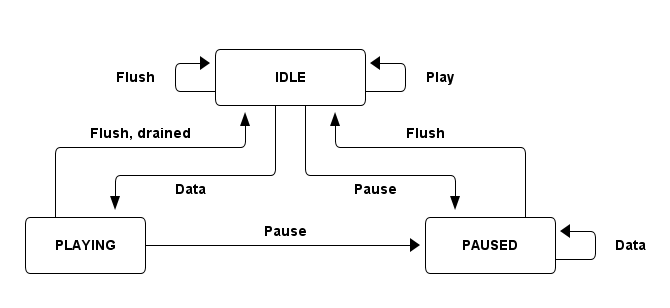
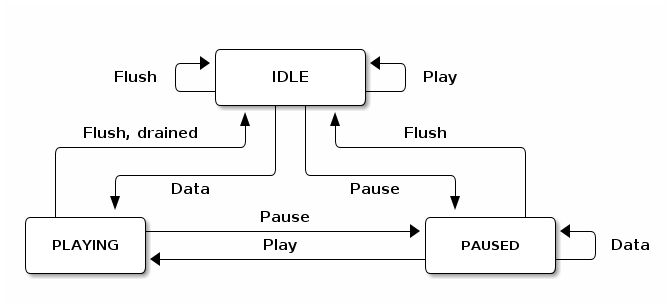
minor fixes to diagrams

diff --git a/docs/learn/base-services/audiostreaming/interface.md b/docs/learn/base-services/audiostreaming/interface.md
@@ -34,6 +34,7 @@
 | | |   * Stream.Port.ApplicationMetadata |
 | | | * Added the Control.Volume interface. |
 | | | * Updated the Introspection XML to reflect the Control.Volume output. |
+| 14.06 Update 2 | 11/12/2014 | Updated the Audio sink state diagram to include a Play arrow directed from Paused to Playing. |
 
 ## Definition Overview
 
@@ -196,8 +197,7 @@ or Stream.Port.AudioSink.
 
 | Interface name | Version | Secured | Object path |
 |---|---|---|---|
-| org.alljoyn.Stream.Port | 1 | no | Chile node of node 
-implementing the Stream interface. |
+| org.alljoyn.Stream.Port | 1 | no | Chile node of node implementing the Stream interface. |
 
 ### Properties
 
@@ -251,7 +251,7 @@ first close the stream, then open and connect with the new configuration.
 ## Stream.Port.Audio Interfaces
 
 The Stream.Port.AudioSource and Stream.Port.AudioSink interfaces 
-define the data format for audio/* media. The interfaces are 
+define the data format for audio/\* media. The interfaces are 
 implemented by port objects that support audio/* capabilities.
 
 ### FIFO control
@@ -404,7 +404,9 @@ No methods are exposed by this interface.
 
 ## Stream.Port.Image Interfaces
 
-The Stream.Port.ImageSource and Stream.Port.ImageSink interfaces define the data format for image/* media types. The interfaces are implemented by port objects that support image/* capabilities.
+The Stream.Port.ImageSource and Stream.Port.ImageSink interfaces 
+define the data format for image/\* media types. The interfaces 
+are implemented by port objects that support image/* capabilities.
 
 ### Stream.Port.ImageSink interface
 
@@ -412,8 +414,7 @@ The Stream.Port.ImageSource and Stream.Port.ImageSink interfaces define the data
  
 | Interface name | Version | Secured | Object path |
 |---|---|---|---|
-| org.alljoyn.Stream.Port.ImageSink | 1 | no | Child node of the node implementing the Stream
-interface. |
+| org.alljoyn.Stream.Port.ImageSink | 1 | no | Child node of the node implementing the Stream interface. |
 
 #### Properties
 
@@ -529,7 +530,7 @@ No methods are exposed by this interface.
 | | | * low | | |
 | | | * step | | |
 | Mute | b | * true | yes | Whether or not this device is muted. |
-| | | * fales | | |
+| | | * false | | |
 | Enabled | b | * true | no | Whether or not Volume control is enabled. If this value is false, all methods that change the playback volume will return an error. |
 | | | * false | | |
 
@@ -577,7 +578,7 @@ Adjust the volume by a certain percentage.
 | Signal name | Parameters | Sessionless | Description |
 |---|---|---|---|
 | | **Parameter name** / **Mandatory** / **Signature** | | |
-| VolumeChanged | (listed below | no | Signal sent when the volume has changed. |
+| VolumeChanged | (listed below) | no | Signal sent when the volume has changed. |
 | | newVolume / yes / b | | |
 | MuteChanged | (listed below) | no | Signal sent when the volume's mute state has changed. |
 | | newMute / yes / b | | |
@@ -714,20 +715,20 @@ used in a metadata dictionary entry.
 Date values are to only be represented as strings in one of 
 the following ISO 8601 formats:
 
-* Year only: \*"<year>"\* where <year> includes all digits of 
+* Year only: "&lt;year&gt;" where <year> includes all digits of 
 the year.
-* Date: \*"<year><month><day>"\* where:
+* Date: "&lt;year&gt;&lt;month&gt;&lt;day&gt;" where:
   * <year> includes all digits of the year
   * <month> is a 2-digit representation of month ("01" = January)
   * <day> is the day of the month (e.g., "09").
-* Date and time: \*"<year><month><day>T<hour><minute><second>+/-<offset>"\* where:
-  * <year>, <month>, and <day> are the same as the date previously specified
+* Date and time: " &lt;year&gt;&lt;month&gt;&lt;day&gt;T&lt;hour&gt;&lt;minute&gt;&lt;second&gt;+/- &lt;offset&gt;" where:
+  * &lt;year&gt;, &lt;month&gt;, and &lt;day&gt; are the same as the date previously specified
   * <hour> is the hour ("00" through "23")
   * <minute> is the minute ("00" through "59")
   * <second> is the second ("00" through "59")
   * <offset> is the offset from UTC ("-0800" corresponds to Pacific 
   Standard Time)
-* Date and time: \*"<year><month><day>T<hour><minute>+/-<offset>"\* 
+* Date and time: "&lt;year&gt;&lt;month&gt;&lt;day&gt;T&lt;hour&gt;&lt;minute&gt;+/- &lt;offset&gt;"
 is the same as the previous date and time specification except 
 without the <second> (seconds) portion.
 
@@ -756,13 +757,11 @@ without the <second> (seconds) portion.
 ```xml
 <node xmlns:xsi="http://www.w3.org/2001/XMLSchema-instance" 
 xsi:noNamespaceSchemaLocation="http://www.allseenalliance.org/schemas/introspect.xsd">
-
    <interface name="org.alljoyn.Stream">
       <property name="Version" type="q" access="read"/>
       <method name="Open"/>
       <method name="Close"/>
    </interface>
-
    <interface name="org.alljoyn.Stream.Port">
       <property name="Version" type="q" access="read"/>
       <property name="Direction" type="y" access="read"/>
@@ -776,7 +775,6 @@ xsi:noNamespaceSchemaLocation="http://www.allseenalliance.org/schemas/introspect
          <arg name="configuration" type="(sa{sv})" direction="in"/>
       </method>
    </interface>
-
    <interface name="org.alljoyn.Stream.Port.AudioSink">
       <property name="Version" type="q" access="read"/>
       <property name="FifoSize" type="u" access="read"/>
@@ -797,7 +795,6 @@ xsi:noNamespaceSchemaLocation="http://www.allseenalliance.org/schemas/introspect
          <arg name="numBytesFlushed" type="u" direction="out"/>
       </method>
    </interface>
-
    <interface name="org.alljoyn.Stream.Port.AudioSource">
       <property name="Version" type="q" access="read"/>
       <signal name="Data">
@@ -805,29 +802,24 @@ xsi:noNamespaceSchemaLocation="http://www.allseenalliance.org/schemas/introspect
          <arg name="bytes" type="ay"/>
       </signal>
    </interface>
-
    <interface name="org.alljoyn.Stream.Port.ImageSink">
       <property name="Version" type="q" access="read"/>
    </interface>
-
    <interface name="org.alljoyn.Stream.Port.ImageSource">
       <property name="Version" type="q" access="read"/>
       <signal name="Data">
          <arg name="bytes" type="ay"/>
       </signal>
    </interface>
-
    <interface name="org.alljoyn.Stream.Port.Application.MetadataSink">
       <property name="Version" type="q" access="read"/>
    </interface>
-
    <interface name="org.alljoyn.Stream.Port.Application.MetadataSource">
       <property name="Version" type="q" access="read"/>
       <signal name="Data">
          <arg name="dictionary" type="a{sv}"/>
       </signal>
    </interface>
-
    <interface name="org.alljoyn.Stream.Clock">
       <property name="Version" type="q" access="read"/>
       <method name="SetTime">
@@ -837,7 +829,6 @@ xsi:noNamespaceSchemaLocation="http://www.allseenalliance.org/schemas/introspect
          <arg name="adjustNanos" type="x" direction="in"/>
       </method>
    </interface>
-
    <interface name="org.alljoyn.Control.Volume">
       <property name="Version" type="q" access="read"/>
       <property name="Volume" type="n" access="readwrite"/>
@@ -859,8 +850,6 @@ xsi:noNamespaceSchemaLocation="http://www.allseenalliance.org/schemas/introspect
          <arg name="enabled" type="b"/>
       </signal>
    </interface>
-
-
 </node>
 ```
 

diff --git a/docs/develop/building/ios-osx/index.md b/docs/develop/building/ios-osx/index.md
@@ -1,8 +1,10 @@
 # Building iOS/OS X
 
+Note, some of the paths below will need to be adjusted based on the version downloaded
+
 ## Setup
 
-1. Download the following ZIP files from the iOS section of the Source page, https://www.allseenalliance.org/source-code:
+1. [Download][download] the following iOS SDKs:
      * Core SDK (release)
      * Onboarding SDK
      * Configuration SDK
@@ -164,3 +166,5 @@ Compiler Flags__ group and set the following:
     * liballjoyn_onboarding_cpp.a
   * alljoyn-ios/services/alljoyn-onboarding-14.06.00-rel/objc/lib/
     * liballjoyn_onboarding_objc.a
+
+[download]: /download

diff --git a/docs/develop/building/thin-windows.md b/docs/develop/building/thin-windows.md
@@ -3,7 +3,7 @@
 ## Setup
 1. Install Python v2.6/2.7 for Windows (Python 3.0 will NOT work).
 2. Install SCons 2.3 for Windows.
-3. Download the Windows Thin Core SDK from the AllSeen Alliance web site, https://www.allseenalliance.org/source-code.
+3. [Download][download] the Windows Thin Core SDK.
 4. Extract the downloaded package.
 
 ## Build the samples
@@ -17,3 +17,4 @@ scons OS=win7 CPU=x86_64 WS=off MSVC_VERSION=11.0
 Binaries for the samples are located at `$AJ_ROOT\core\alljoyn\samples\basic`
 
 [build-app-thin-library]:  /develop/tutorial/thin-app
+[download]: /download
